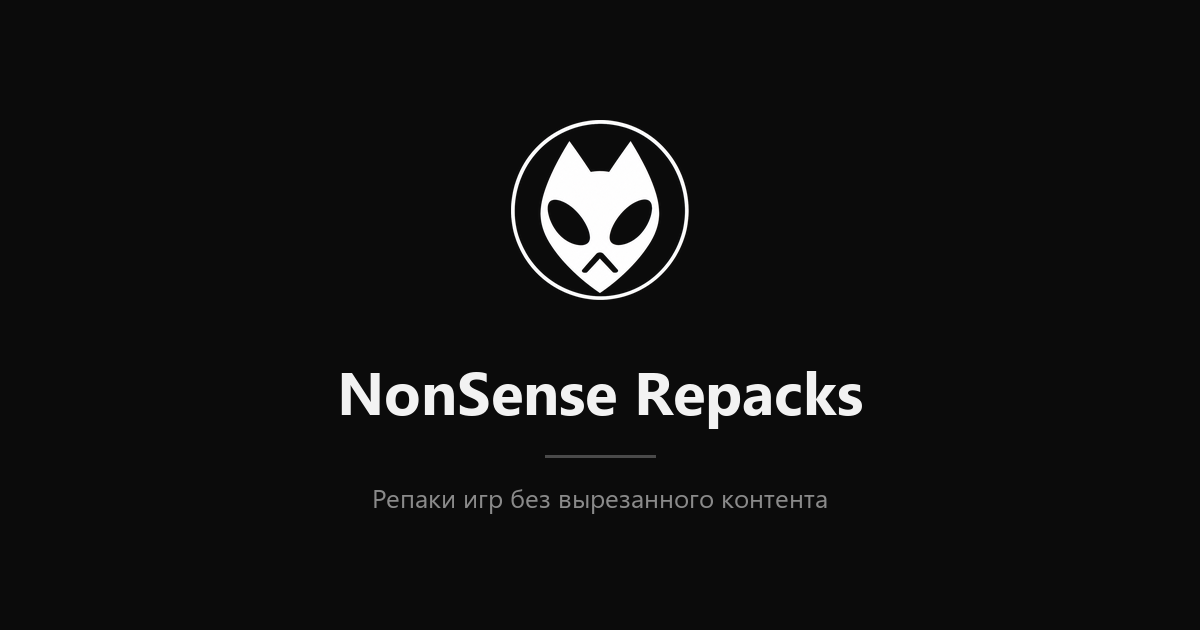
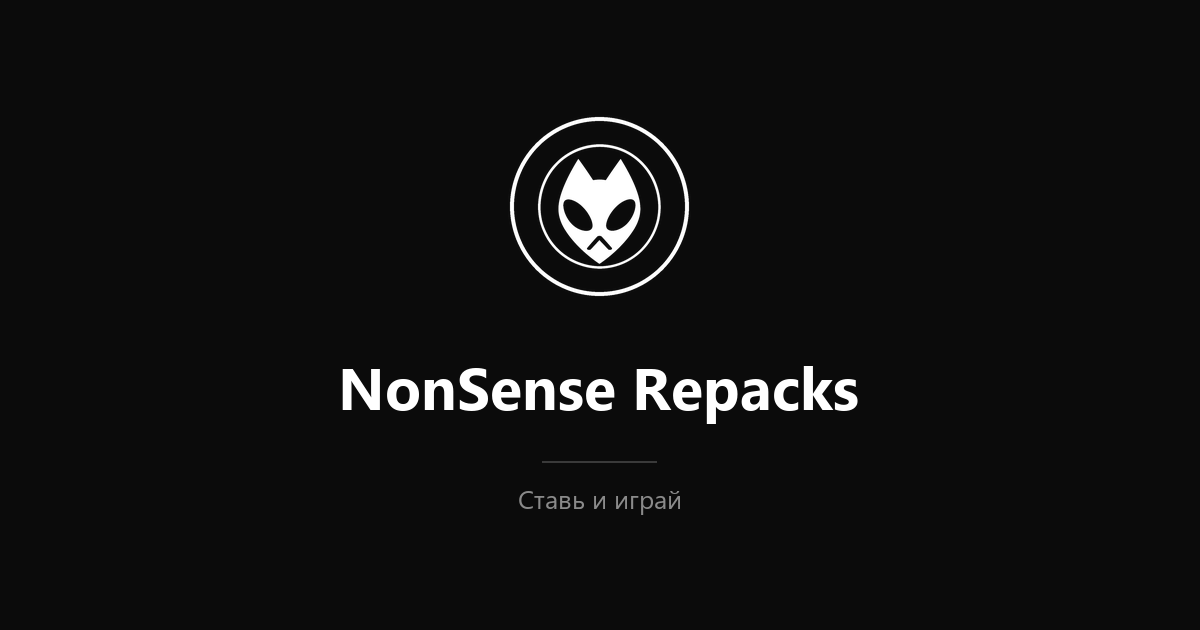
Слоган «Ставь и играй» вместо «без вырезанного контента»

diff --git a/index.html b/index.html
@@ -4,7 +4,7 @@
 <meta charset="utf-8">
 <meta name="viewport" content="width=device-width, initial-scale=1">
 <title>NonSense Repacks</title>
-<meta name="description" content="Репаки игр без вырезанного контента, с русским установщиком.">
+<meta name="description" content="Репаки игр с русским установщиком: ничего не вырезано, вес меньше оригинала. Ставь и играй.">
 <link rel="canonical" href="https://not1024.github.io/NonSense/">
 <link rel="icon" href="./images/logo.png">
 
@@ -13,7 +13,7 @@
 <meta property="og:type" content="website">
 <meta property="og:site_name" content="NonSense Repacks">
 <meta property="og:title" content="NonSense Repacks">
-<meta property="og:description" content="Репаки игр без вырезанного контента, с русским установщиком.">
+<meta property="og:description" content="Репаки игр с русским установщиком: ничего не вырезано, вес меньше оригинала. Ставь и играй.">
 <meta property="og:url" content="https://not1024.github.io/NonSense/">
 <meta property="og:image" content="https://not1024.github.io/NonSense/images/card.png">
 <meta name="twitter:card" content="summary_large_image">
